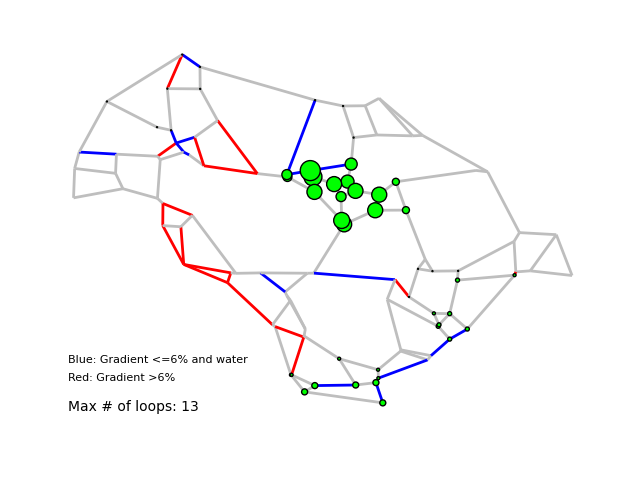
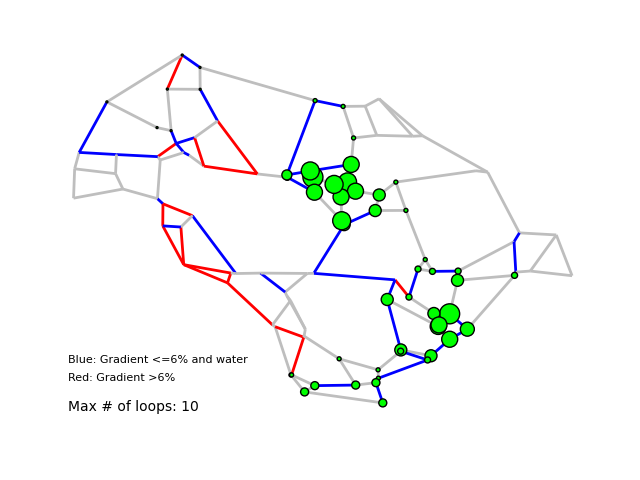
Add POI diversity restriction

diff --git a/code/functions.py b/code/functions.py
@@ -52,6 +52,18 @@ def getLoopMaxSlope(c):
     return ms
 
 
+def getLoopPOIDiversity(c):
+    pd = [0, 0, 0]  # facilities, services, attractions
+    cl = len(c)
+    for i in range(cl):
+        pd = [
+            pd[0] or Gnx[c[i % cl]][c[(i + 1) % cl]]["has_facility"],
+            pd[1] or Gnx[c[i % cl]][c[(i + 1) % cl]]["has_service"],
+            pd[2] or Gnx[c[i % cl]][c[(i + 1) % cl]]["has_attraction"],
+        ]
+    return sum(pd)
+
+
 def getLoopWaterProfile(c):
     wp = tuple()
     cl = len(c)
